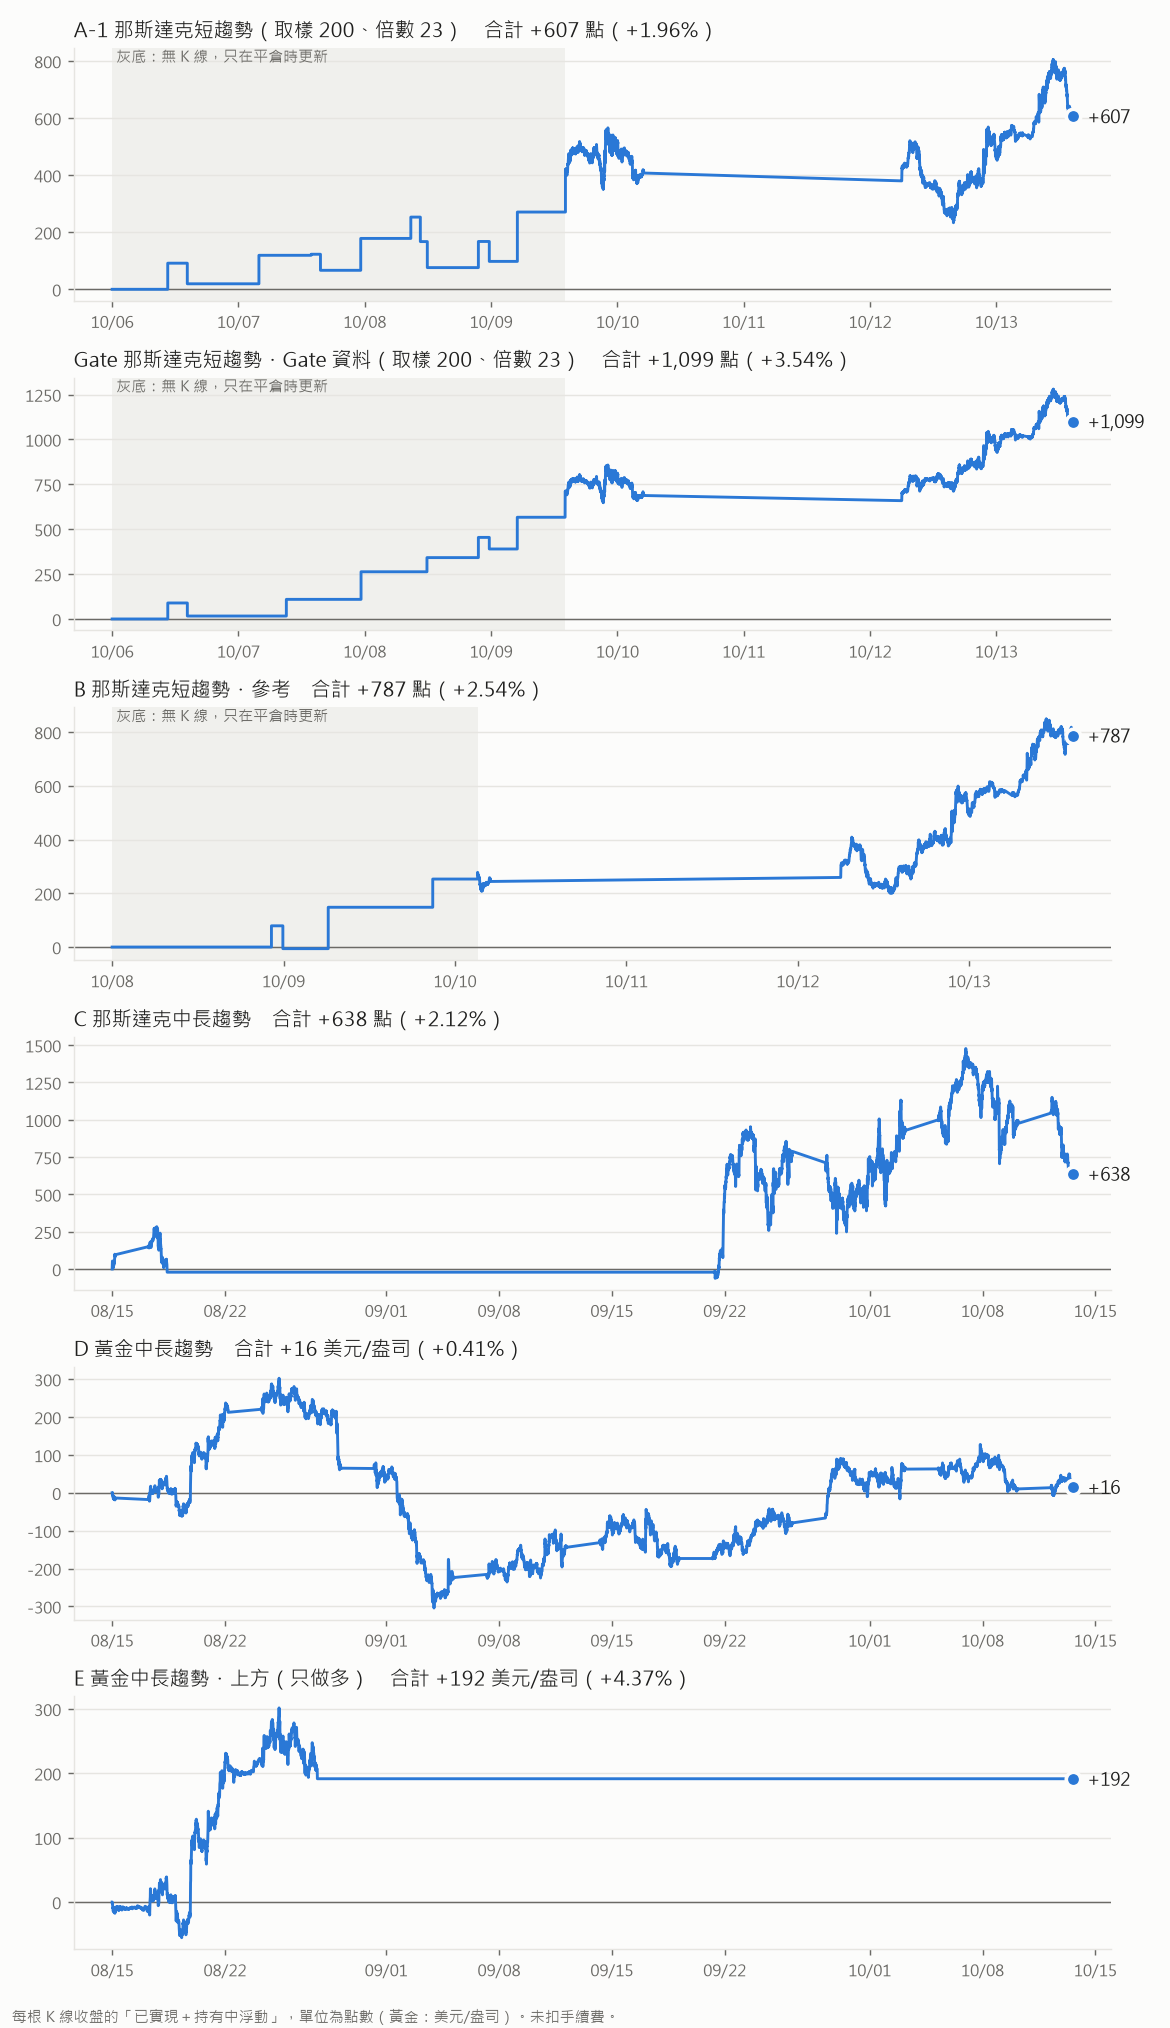
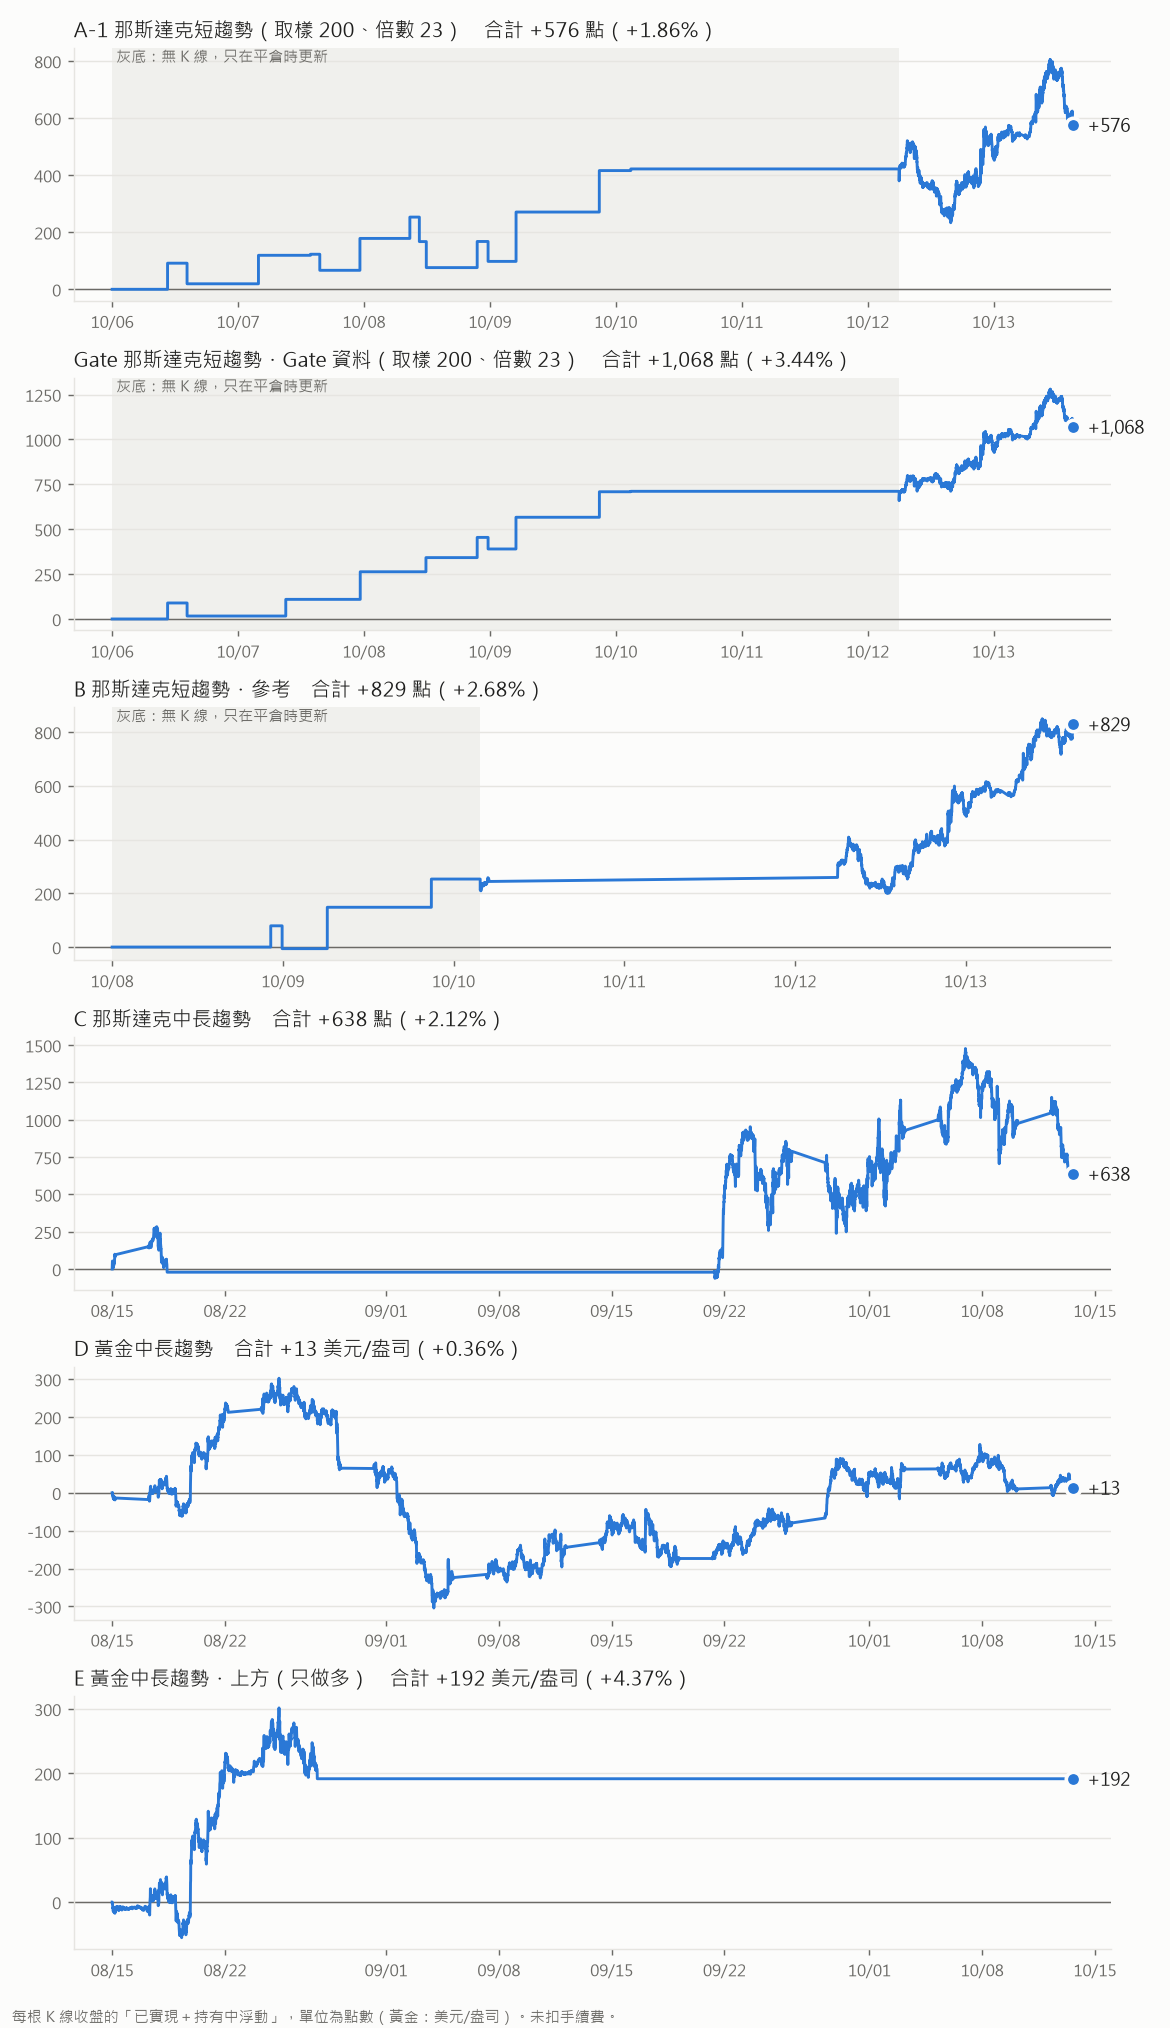
v1.7.0 曲線圖改成交易明細（自動更新）＋那斯達克勝率
- 標題列「曲線圖」改成「交易明細」：六組可切換，總結＋逐筆明細（新的在上）。
  底稿讀 實際紀錄/進出紀錄.csv，正式紀錄算到的時間之後用網頁即時部位接著補（標 ◆），
  開著每秒重算、正式紀錄每 5 分鐘重讀；盈虧與那斯達克換算照 更新紀錄.py 的 perf()／nqconv。
- 那斯達克四組加勝率：已平倉每筆賺 15 點以上才算贏，未達 15 點都算輸。
- 更新紀錄.py 每次跑完寫 紀錄狀態.json（各組算到的最後一根走完的 K 棒），
  網頁從那之後接著算；沒有這個檔時 B 格會一直誤報中間有缺口。

diff --git a/index.html b/index.html
@@ -3,7 +3,7 @@
 <head>
 <meta charset="utf-8">
 <meta name="viewport" content="width=device-width,initial-scale=1,viewport-fit=cover">
-<title>指數趨勢儀表板 v1.6.0</title>
+<title>指數趨勢儀表板 v1.7.0</title>
 <meta name="description" content="那斯達克 30 秒 Range Filter（Binance 與 Gate）、那斯達克 6 分、黃金 8 分與黃金 11 分 Donchian 的即時趨勢訊號">
 <meta name="theme-color" content="#0b0e14">
 <meta name="apple-mobile-web-app-capable" content="yes">
@@ -49,7 +49,7 @@ h1 small{font-size:11px;color:#ff2d55;font-weight:400;margin-left:5px}
 #stTxt{display:none}
 .status{flex:none;margin-left:auto}
 /* v1.4.3：曲線圖緊貼在中長趨勢右邊，燈號靠最右 */
-#curveBtn{margin-left:0}.dot.warn{background:var(--warn)}.dot.err{background:var(--long)}
+#tradeBtn{margin-left:0}.dot.warn{background:var(--warn)}.dot.err{background:var(--long)}
 .hbtn+.hbtn{margin-left:6px}
 .hbtn{margin-left:auto;flex:none;font-size:12px;color:var(--text);background:var(--panel);border:1px solid var(--line);
   border-radius:6px;padding:3px 10px;cursor:pointer}
@@ -91,6 +91,21 @@ canvas{display:block;width:100%;height:100%;touch-action:pan-y;cursor:crosshair}
   border-radius:12px 12px 0 0;padding:12px 16px 20px;font-size:13px;line-height:1.7;color:var(--mute)}
 .sheet .top{display:flex;align-items:center;justify-content:space-between;color:var(--text);font-weight:700;margin-bottom:4px}
 .sheet li{margin:4px 0}
+/* v1.7.0 交易明細 */
+.tk{display:flex;gap:4px;flex-wrap:wrap;margin:2px 0 8px}
+.tk button{font-size:12px;color:var(--mute);background:#0e121b;border:1px solid var(--line);border-radius:5px;padding:2px 9px;cursor:pointer}
+.tk button.on{color:#0b0e14;background:var(--tag);border-color:var(--tag);font-weight:700}
+.tsum{color:var(--text);font-size:12px;line-height:1.6;margin-bottom:4px;font-variant-numeric:tabular-nums}
+.tsum .tot{font-size:16px;font-weight:700}
+.tnote{font-size:11px;color:var(--mute);line-height:1.5;margin:2px 0 6px}
+.tnote.warn{color:var(--warn)}
+.tt{width:100%;border-collapse:collapse;font-size:11.5px;line-height:1.35;color:var(--text);font-variant-numeric:tabular-nums}
+.tt th{font-weight:400;color:var(--mute);text-align:right;padding:3px;border-bottom:1px solid var(--line);white-space:nowrap}
+.tt td{text-align:right;padding:4px 3px;border-bottom:1px solid #1b2130;white-space:nowrap;vertical-align:top}
+.tt th:nth-child(-n+2),.tt td:nth-child(-n+2){text-align:center}
+.tt small{color:var(--mute);font-size:10.5px}
+.tt tr.live td:first-child{color:var(--tag)}
+.tt tr.hold td{background:rgba(34,199,232,.07)}
 </style>
 </head>
 <body>
@@ -98,19 +113,19 @@ canvas{display:block;width:100%;height:100%;touch-action:pan-y;cursor:crosshair}
 <header>
   <h1>指數趨勢儀表板<small id="ver"></small></h1>
   <div class="tabs" id="tabs"><button data-pg="short">短趨勢</button><button data-pg="long">中長趨勢</button></div>
-  <button class="hbtn" id="curveBtn">曲線圖</button>
+  <button class="hbtn" id="tradeBtn">交易明細</button>
   <div class="status"><i class="dot" id="dot"></i><span id="stTxt">準備中</span></div>
 </header>
 <div class="loadbar" id="loadBar" hidden><div class="fill" id="loadFill"></div><span id="loadTxt"></span></div>
 <main class="grid" id="grid"></main>
 </div>
 
-<!-- v1.4.1：績效曲線圖，由 實際紀錄/更新紀錄.py 每次開工時重畫 -->
-<div class="sheet" id="curveSheet" hidden>
+<!-- v1.7.0：曲線圖改成交易明細（使用者 2026-10-13 要求），開著時每秒更新 -->
+<div class="sheet" id="tradeSheet" hidden>
   <div class="in">
-    <div class="top">績效曲線（實際紀錄）<button class="hbtn" id="curveClose">關閉</button></div>
-    <div id="curveNote" style="font-size:11px;margin-bottom:6px">每次開工跑紀錄時更新・已實現＋持有中浮動・未扣手續費</div>
-    <img id="curveImg" alt="績效曲線圖" style="display:block;width:100%;border-radius:6px;background:#fafaf8">
+    <div class="top">交易明細<button class="hbtn" id="tradeClose">關閉</button></div>
+    <div class="tk" id="tradeTabs"></div>
+    <div id="tradeBody"></div>
   </div>
 </div>
 
@@ -119,7 +134,7 @@ canvas{display:block;width:100%;height:100%;touch-action:pan-y;cursor:crosshair}
 
 <script>
 "use strict";
-const VERSION = "v1.6.0";
+const VERSION = "v1.7.0";
 const $ = id => document.getElementById(id);
 const FAPI = "https://fapi.binance.com/fapi/v1";
 const sleep = ms => new Promise(r => setTimeout(r, ms));
@@ -743,14 +758,18 @@ function buildDOM(){
       <div class="wait" id="wait-${p.k}">載入中…</div>
     </div>
   </section>`).join("");
-  $("curveBtn").onclick = () => {
-    $("curveImg").hidden = false;
-    $("curveImg").src = "實際紀錄/績效曲線.png?t=" + Date.now();   // 每次開都抓最新的圖
-    $("curveSheet").hidden = false;
+  $("tradeTabs").innerHTML = TRADE_K.map(T => `<button data-k="${T.k}">${T.name}</button>`).join("");
+  $("tradeTabs").onclick = e => {
+    const k = e.target.dataset && e.target.dataset.k; if(!k) return;
+    tradeK = k; try{ localStorage.setItem("itd-trade-k", k); }catch(err){}
+    tradeSig = ""; renderTrades();
   };
-  $("curveImg").onerror = () => { $("curveImg").hidden = true; $("curveNote").textContent = "還沒有曲線圖：開工跑一次實際紀錄後才會產生"; };
-  $("curveClose").onclick = () => { $("curveSheet").hidden = true; };
-  $("curveSheet").onclick = e => { if(e.target.id === "curveSheet") $("curveSheet").hidden = true; };
+  $("tradeBtn").onclick = () => {
+    $("tradeSheet").hidden = false; tradeSig = ""; renderTrades();
+    if(!LOGROWS || Date.now() - logAt > 60000) loadLog();   // 每次打開都重讀正式紀錄（一分鐘內不重複）
+  };
+  $("tradeClose").onclick = () => { $("tradeSheet").hidden = true; };
+  $("tradeSheet").onclick = e => { if(e.target.id === "tradeSheet") $("tradeSheet").hidden = true; };
   for(const p of PANELS) bindChart(p);
   document.querySelectorAll("#tabs button").forEach(b => b.onclick = () => showPage(b.dataset.pg));
   let pg = "short"; try{ pg = localStorage.getItem(PAGE_KEY) || "short"; }catch(e){}
@@ -816,6 +835,149 @@ function renderInfo(p){
   if(e.t) parts.push(`進場 <b>${tText(e.t)}</b> @<b>${fmtP(p, e.price)}</b>`, `<b>${durText(Date.now() - e.t)}</b>`);
   parts.push(`${trigK} <b>${trig}</b>`);
   $("kv-" + p.k).innerHTML = parts.join(" · ");
+}
+
+/* ============ v1.7.0 交易明細（取代曲線圖；使用者 2026-10-13 要求「只要有交易就自動更新」） ============
+   底稿是 實際紀錄/進出紀錄.csv（開工時 更新紀錄.py 寫的正式紀錄）。最後一筆之後，用這一頁即時算出的
+   部位接著補（標「◆」），接法照 update()：先比對交界那根部位、不同就記校正，再逐根找部位改變。
+   盈虧逐行照 perf()：盈虧＝漲跌 %×進場時的那斯達克點數，換倉讀備註的舊約平倉價，總 % 是逐筆相加。
+   即時那幾筆可能跟正式紀錄差幾點（C 格網頁用連續月 NQ=F、紀錄用單一月份合約；Gate 網頁用原生 30 秒 K、
+   紀錄用逐筆合成），下次開工跑紀錄後以正式紀錄為準。 */
+const TRADE_K = [
+  {k:"A", pk:"rf",     name:"A-1",  unit:"點"},
+  {k:"G", pk:"gate",   name:"Gate", unit:"點"},
+  {k:"B", pk:"hl",     name:"B",    unit:"點"},
+  {k:"C", pk:"nq6",    name:"C",    unit:"點"},
+  {k:"D", pk:"gold8",  name:"D 黃金", unit:"美元", d:2},
+  {k:"E", pk:"gold11", name:"E 黃金", unit:"美元", d:2},
+];
+const SIDE_N = {"多":1, "空":-1, "空手":0}, SIDE_T = {1:"多", "-1":"空", 0:"空手"};
+let LOGROWS = null, LOGCOVER = {}, logAt = 0, logErr = "", logBusy = false, tradeK = "A", tradeSig = "";
+try{ tradeK = localStorage.getItem("itd-trade-k") || "A"; }catch(e){}
+function parseCSV(txt){
+  const out = []; let row = [], f = "", q = false;
+  txt = txt.replace(/^/, "");
+  for(let i = 0; i < txt.length; i++){
+    const ch = txt[i];
+    if(q){ if(ch === '"'){ if(txt[i+1] === '"'){ f += '"'; i++; } else q = false; } else f += ch; }
+    else if(ch === '"') q = true;
+    else if(ch === ","){ row.push(f); f = ""; }
+    else if(ch === "\n" || ch === "\r"){
+      if(ch === "\r" && txt[i+1] === "\n") i++;
+      row.push(f); f = ""; if(row.length > 1) out.push(row); row = [];
+    }else f += ch;
+  }
+  if(f || row.length){ row.push(f); if(row.length > 1) out.push(row); }
+  const head = out.shift() || [];
+  return out.map(r => Object.fromEntries(head.map((h, i) => [h, r[i] || ""])));
+}
+async function loadLog(){
+  if(logBusy) return; logBusy = true;
+  try{
+    const r = await fetch("實際紀錄/進出紀錄.csv?t=" + Date.now(), {cache:"no-store"});
+    if(!r.ok) throw new Error("HTTP " + r.status);
+    LOGROWS = parseCSV(await r.text()).map(x => ({k:x["格子"], t:+x["時間戳"], act:x["動作"], side:SIDE_N[x["部位"]],
+      p:+x["價格"], nq:x["換算那斯達克"] ? +x["換算那斯達克"] : null, note:x["備註"]})).sort((a, b) => a.t - b.t);
+    logAt = Date.now(); logErr = "";
+    // 紀錄程式每次跑完寫「各組算到幾點」：那之前它已確認沒有新交易，網頁從那之後接著算
+    try{ const s = await fetch("實際紀錄/紀錄狀態.json?t=" + Date.now(), {cache:"no-store"}); LOGCOVER = s.ok ? (await s.json())["算到"] || {} : {}; }
+    catch(e){ LOGCOVER = {}; }
+  }catch(e){ logErr = "讀不到進出紀錄：" + (e.message || e); }
+  logBusy = false; tradeSig = ""; renderTrades();
+}
+function tradesOf(T){
+  const p = PAN(T.pk), rows = LOGROWS.filter(r => r.k === T.k).map(r => Object.assign({}, r));
+  // 換算那斯達克點數：照 更新紀錄.py 的 nqconv，用當時那一分鐘（往前找 30 分鐘內）的 Hyperliquid 收盤÷當根價格，
+  // 找不到才用現在的比例。用現在的比例會跟正式紀錄差 10 點以上（盈虧點數不受影響，算法是漲跌 %×進場點數）。
+  const hl = RAW1M["xyz:XYZ100"] || [];
+  const hlAt = t => {
+    const m = Math.floor(t / 60000) * 60000;
+    for(let k = hl.length - 1; k >= 0 && hl[k].t > m - 30 * 60000; k--) if(hl[k].t <= m) return hl[k].c;
+    return null;
+  };
+  const conv = (v, t) => { if(!p.nq) return v; const h = t != null ? hlAt(t) : null; return h ? h : v * RATIO; };
+  // 那斯達克兩格要等換算比例出來，不然即時那幾筆會用 QQQ 原價
+  const ready = p.ready && p.R && p.done > 0 && (!p.nq || RATIO);
+  let gap = false;
+  if(ready && rows.length){
+    const B = p.bars, pos = p.R.pos, n = p.done, lo = p.R.warm;
+    const from = Math.max(rows[rows.length-1].t, LOGCOVER[T.k] || 0);
+    let cur = rows[rows.length-1].side, s = B.findIndex(b => b.t > from);
+    if(s < 0 || s > n) s = n;
+    if(s < lo){ gap = true; s = lo; }   // 正式紀錄之後的缺口比網頁抓到的資料還長，中間可能漏
+    const add = (i, side, note) => rows.push({k:T.k, t:B[i].t, act:"", side, p:B[i].c, nq:p.nq ? conv(B[i].c, B[i].t) : null, note, live:true});
+    const j = s - 1;
+    if(j >= lo && j < n && pos[j] !== cur){ add(s < n ? s : j, pos[j], "校正"); cur = pos[j]; }
+    for(let i = s; i < n; i++) if(pos[i] !== cur){ add(i, pos[i], ""); cur = pos[i]; }
+  }
+  let pts = 0, pct = 0, cnt = 0, win = 0, side = 0, ent = null, entNq = null, entT = null, entLive = false;
+  const trades = [];
+  for(const r of rows){
+    const pn = r.nq != null ? r.nq : r.p;
+    if(r.act === "換倉"){   // 舊約平倉價寫在備註
+      const m = /舊約平倉 ([\d.]+)/.exec(r.note), old = m ? +m[1] : r.p, g = (old - ent) * side;
+      pts += g; pct += g / ent * 100; cnt++; win += g > 0;
+      trades.push({side, et:entT, ep:entNq, xt:r.t, xp:old, g, gp:g / ent * 100, cum:pts, roll:true, live:entLive || !!r.live});
+      ent = r.p; entNq = pn; entT = r.t; entLive = !!r.live; continue;
+    }
+    if(side !== 0 && r.side !== side){
+      const g = (r.p / ent - 1) * side; pts += g * entNq; pct += g * 100; cnt++; win += g > 0;
+      trades.push({side, et:entT, ep:entNq, xt:r.t, xp:pn, g:g * entNq, gp:g * 100, cum:pts, live:!!r.live, fix:r.note === "校正"});
+    }
+    if(r.side !== side){ side = r.side; ent = side ? r.p : null; entNq = side ? pn : null; entT = side ? r.t : null; entLive = !!r.live; }
+  }
+  let op = null;
+  if(side){
+    op = {side, t:entT, p:entNq, live:entLive};
+    if(ready){
+      const L = p.bars[p.bars.length-1], g = (L.c / ent - 1) * side;
+      Object.assign(op, {now:conv(L.c, L.t), pts:g * entNq, pct:g * 100});
+    }
+  }
+  return {cnt, win, pts, pct, op, trades, gap, ready, upTo:ready ? p.bars[p.bars.length-1].t : null, first:ready ? (p.bars[p.R.warm] || p.bars[p.bars.length-1]) : null};
+}
+const fmtN = (v, d) => v.toLocaleString("en-US", {minimumFractionDigits:d, maximumFractionDigits:d});
+const sgn = (v, d = 0) => { const r = +v.toFixed(d); return (r > 0 ? "+" : r < 0 ? "−" : "") + fmtN(Math.abs(r), d); };
+const ud = v => v > 0 ? "up" : v < 0 ? "dn" : "";
+const sideCls = s => s > 0 ? "up" : s < 0 ? "dn" : "";
+/* v1.7.0 勝率（使用者 2026-10-13 要求，只有那斯達克四組）：已平倉每筆賺 15 點以上才算贏，
+   未達 15 點（含小賺）都算輸；持有中不算。用四捨五入後的點數判斷，跟表上看到的數字一致。 */
+const WIN_PTS = 15;
+function winLine(T, R){
+  if(T.unit !== "點" || !R.cnt) return "";
+  const w = R.trades.filter(x => Math.round(x.g) >= WIN_PTS).length, rate = w / R.cnt * 100;
+  return `<div>勝率 <b class="${rate >= 50 ? "up" : "dn"}">${rate.toFixed(0)}%</b>（贏 ${w}／輸 ${R.cnt - w}，未達 ${WIN_PTS} 點算輸）</div>`;
+}
+function renderTrades(){
+  if($("tradeSheet").hidden) return;
+  const T = TRADE_K.find(x => x.k === tradeK) || TRADE_K[0], d = T.d || 0, u = T.unit;
+  let html;
+  if(!LOGROWS) html = `<div class="tnote">${logErr || "讀取進出紀錄中…"}</div>`;
+  else if(!LOGROWS.some(r => r.k === T.k)) html = `<div class="tnote">這組還沒有正式紀錄（開工跑一次紀錄後才有）</div>`;
+  else{
+    const R = tradesOf(T), o = R.op, tot = R.pts + (o && o.pts != null ? o.pts : 0), totP = R.pct + (o && o.pct != null ? o.pct : 0);
+    const hold = !o ? "目前空手"
+      : `持有中：<span class="${sideCls(o.side)}">${SIDE_T[o.side]}</span> ${tText(o.t)} @${fmtN(o.p, d)}` +
+        (o.pts != null ? `，現價 ${fmtN(o.now, d)}，浮動 <span class="${ud(o.pts)}">${sgn(o.pts)} ${u}（${sgn(o.pct, 2)}%）</span>` : "，現價載入中");
+    html = `<div class="tsum">
+      <div class="tot ${ud(tot)}">合計 ${sgn(tot)} ${u}（${sgn(totP, 2)}%）${o && o.pts == null ? '<small style="font-size:11px;font-weight:400;color:var(--mute)">　不含浮動</small>' : ""}</div>
+      <div>已平倉 ${R.cnt} 筆（賺 ${R.win}／賠 ${R.cnt - R.win}），已實現 <span class="${ud(R.pts)}">${sgn(R.pts)} ${u}（${sgn(R.pct, 2)}%）</span></div>${winLine(T, R)}
+      <div>${hold}</div></div>
+      <div class="tnote">未扣手續費・${R.ready ? "資料到 " + tText(R.upTo) + "・開著會自動更新" : "圖表還在載入，先顯示正式紀錄"}・◆＝正式紀錄之後網頁即時算的，下次開工以正式紀錄為準</div>` +
+      (R.gap ? `<div class="tnote warn">正式紀錄最後一筆之後隔太久，網頁只能從 ${tText(R.first.t)} 接著算，中間可能漏掉交易；開工跑一次紀錄就會補齊。</div>` : "");
+    const rowsH = R.trades.map((x, i) => ({x, i: i + 1})).reverse().map(({x, i}) => `<tr class="${x.live ? "live" : ""}">
+      <td>${x.live ? "◆" : ""}${i}</td><td class="${sideCls(x.side)}">${SIDE_T[x.side]}</td>
+      <td>${tText(x.et)}<br><small>${fmtN(x.ep, d)}</small></td>
+      <td>${tText(x.xt)}${x.roll ? " 換倉" : x.fix ? " 校正" : ""}<br><small>${fmtN(x.xp, d)}</small></td>
+      <td class="${ud(x.g)}">${sgn(x.g)}<br><small>${sgn(x.gp, 2)}%</small></td><td class="${ud(x.cum)}">${sgn(x.cum)}</td></tr>`).join("");
+    const holdH = o ? `<tr class="hold${o.live ? " live" : ""}"><td>${o.live ? "◆" : ""}持有</td><td class="${sideCls(o.side)}">${SIDE_T[o.side]}</td>
+      <td>${tText(o.t)}<br><small>${fmtN(o.p, d)}</small></td><td>現價<br><small>${o.now != null ? fmtN(o.now, d) : "—"}</small></td>
+      <td class="${ud(o.pts)}">${o.pts != null ? sgn(o.pts) : "—"}<br><small>${o.pct != null ? sgn(o.pct, 2) + "%" : ""}</small></td><td class="${ud(tot)}">${sgn(tot)}</td></tr>` : "";
+    html += `<table class="tt"><thead><tr><th>#</th><th>方向</th><th>進場</th><th>出場</th><th>盈虧（${u}）</th><th>累計</th></tr></thead>
+      <tbody>${holdH}${rowsH}</tbody></table>`;
+  }
+  document.querySelectorAll("#tradeTabs button").forEach(b => b.classList.toggle("on", b.dataset.k === T.k));
+  if(html !== tradeSig){ tradeSig = html; $("tradeBody").innerHTML = html; }
 }
 
 /* v1.3.0 分頁：只顯示目前那頁的兩格；四格資料都在背景持續更新，切頁不重新載入。記住上次停的頁。 */
@@ -1106,6 +1268,8 @@ setInterval(() => {
     if(p.dirty){ p.dirty = false; recompute(p); draw(p); }
     renderInfo(p);
   }
+  // v1.7.0：交易明細開著時每秒重算（有新翻轉就多一筆）；正式紀錄每 5 分鐘重讀一次
+  if(!$("tradeSheet").hidden){ renderTrades(); if(Date.now() - logAt > 300000) loadLog(); }
   if(lastMsg && Date.now() - lastMsg > 20000 && WS && WS.readyState === 1){
     setStatus("warn", "超過 20 秒沒有收到新資料，重新連線");
     lastMsg = Date.now(); try{ WS.close(); }catch(e){}

diff --git a/實際紀錄/更新紀錄.py b/實際紀錄/更新紀錄.py
@@ -539,6 +539,10 @@ if __name__ == "__main__":
     allrows = [r for r in LOG_ROWS if r not in added] + added
     allrows.sort(key=lambda r: (r["格子"], int(r["時間戳"])))
     save_log(allrows)
+    # 儀表板「交易明細」從這個時間之後用網頁即時資料接著算（2026-10-13 起）。
+    # 記倒數第二根（最後一根走完的 K 棒）：最後一根可能還在形成，部位之後還會變。
+    with open(os.path.join(HERE, "紀錄狀態.json"), "w", encoding="utf-8") as f:
+        json.dump({"算到": {k: BARS[k][-2][0] for k in ORDER}, "執行時間": NOW}, f, ensure_ascii=False)
 
     print(f"\n本次新增 {len(added)} 筆紀錄")
     for r in sorted(added, key=lambda r: int(r["時間戳"])):
